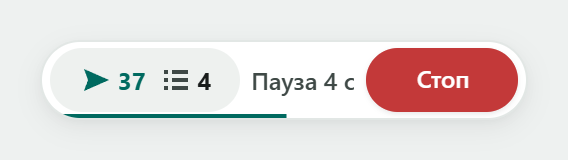
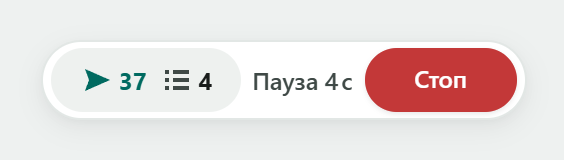
feat(hud): drop the pause bar, narrow space before seconds, release 0.2.4

diff --git a/hh-apply-assistant.user.js b/hh-apply-assistant.user.js
@@ -1,7 +1,7 @@
 // ==UserScript==
 // @name         HH Apply Assistant
 // @namespace    https://github.com/tgeruzov/hh-apply-assistant
-// @version      0.2.3
+// @version      0.2.4
 // @author       Timur Geruzov
 // @description  Автоматические отклики на вакансии hh.ru из поиска. Вакансии с тестами и анкетами откладывает в очередь для ручного отклика
 // @license      GPL-3.0-only
@@ -56,6 +56,10 @@ function pluralRu(n, one, few, many) {
   if (mod10 >= 2 && mod10 <= 4 && (mod100 < 12 || mod100 > 14)) return few;
   return many;
 }
+
+// "4 с" with a narrow no-break space: the unit stays next to the number and never
+// wraps to the next line on its own.
+const formatSeconds = (n) => `${n}\u202Fс`;
 
 function formatTime(dOrTs = new Date()) {
   const d = dOrTs instanceof Date ? dOrTs : (dOrTs ? new Date(dOrTs) : new Date());
@@ -3847,23 +3851,6 @@ function formatTime(dOrTs = new Date()) {
       display: inline-block;
     }
 
-    .hha-pill-step-bar {
-      position: absolute;
-      left: 0;
-      bottom: 0;
-      width: 100%;
-      height: 2px;
-      transform: scaleX(0);
-      transform-origin: left center;
-      background: var(--md-sys-color-primary);
-      opacity: 0;
-      pointer-events: none;
-    }
-
-    .hha-root.is-running .hha-pill-step-bar.is-active {
-      opacity: 1;
-    }
-
     .hha-pill-status {
       position: relative;
       display: inline-flex;
@@ -5680,8 +5667,7 @@ function formatTime(dOrTs = new Date()) {
 
     /* Accessibility: Motion Reduction (opacity only, <= 100ms, no transforms or growth) */
     @media (prefers-reduced-motion: reduce) {
-      /* The pause bar is excluded: it shows how long the pause lasts, it is not decoration. */
-      *:not(.hha-pill-step-bar),
+      *,
       *::before,
       *::after {
         transition-duration: 100ms !important;
@@ -5919,7 +5905,6 @@ function formatTime(dOrTs = new Date()) {
           assistant.on('activity', (activity) => {
             this._activity = activity || null;
             this._syncStatusLine();
-            this._syncPillBar();
           }),
           assistant.on('error', (payload) => this._showError(payload)),
           assistant.on('manualQueue', (payload) => {
@@ -6243,7 +6228,6 @@ function formatTime(dOrTs = new Date()) {
             <button type="button" class="hha-btn-quick hha-btn-start" data-action="quick-toggle" data-el="pill-quick-btn">
               <span class="hha-btn-label" data-el="pill-quick-label">Старт</span>
             </button>
-            <div class="hha-pill-step-bar" data-el="pill-step-bar"></div>
           </div>
 
           <!-- Flyout Overlay (390px wide, max 352px/552px height) -->
@@ -7310,7 +7294,6 @@ function formatTime(dOrTs = new Date()) {
         // The step segment appears only while running, so the pill changes width.
         this._updatePosition();
       }
-      this._syncPillBar();
 
       const quickBtns = this.#shadow.querySelectorAll('.hha-btn-quick');
       if (quickBtns.length > 0) {
@@ -7393,7 +7376,7 @@ function formatTime(dOrTs = new Date()) {
         // Cards without a link get a hash instead of an id; it means nothing to the user.
         if (a.vid && /^\d+$/.test(a.vid)) text += ` #${a.vid}`;
         const secondsLeft = a.until ? Math.ceil((a.until - Date.now()) / 1000) : 0;
-        if (secondsLeft > 0) text += `, ${secondsLeft} с`;
+        if (secondsLeft > 0) text += `, ${formatSeconds(secondsLeft)}`;
         return text;
       }
       if (code === 'DAILY_LIMIT_REACHED') return `Лимит hh.ru: ${MAX_DAILY_LIMIT} откликов за 24 часа. Продолжить можно позже`;
@@ -7433,7 +7416,7 @@ function formatTime(dOrTs = new Date()) {
       const a = this._activity;
       if (!a) return 'Работаю';
       const secondsLeft = a.until ? Math.ceil((a.until - Date.now()) / 1000) : 0;
-      return (ACTIVITY_SHORT[a.code] || 'Работаю') + (secondsLeft > 0 ? ` ${secondsLeft} с` : '');
+      return (ACTIVITY_SHORT[a.code] || 'Работаю') + (secondsLeft > 0 ? ` ${formatSeconds(secondsLeft)}` : '');
     }
 
     // A width transition does not run when `auto` changes with the text, so the
@@ -7449,26 +7432,6 @@ function formatTime(dOrTs = new Date()) {
       step.style.width = `${from}px`;
       void step.offsetWidth;
       step.style.width = `${to}px`;
-    }
-
-    // The bar under the pill fills up over a timed pause. One CSS transition per
-    // pause is enough; the second-by-second countdown lives in the text.
-    _syncPillBar() {
-      const bar = this.#shadow?.querySelector('[data-el="pill-step-bar"]');
-      if (!bar) return;
-      const a = this._status.status === 'running' ? this._activity : null;
-      const remaining = a?.until ? a.until - Date.now() : 0;
-      bar.style.transition = 'none';
-      if (!a?.durationMs || remaining <= 0) {
-        bar.classList.remove('is-active');
-        bar.style.transform = 'scaleX(0)';
-        return;
-      }
-      bar.style.transform = `scaleX(${Math.min(1, Math.max(0, 1 - remaining / a.durationMs))})`;
-      bar.classList.add('is-active');
-      void bar.offsetWidth;
-      bar.style.transition = `transform ${Math.round(remaining)}ms linear`;
-      bar.style.transform = 'scaleX(1)';
     }
 
     _syncStatusLine() {

diff --git a/README.md b/README.md
@@ -4,7 +4,7 @@
 
 **Userscript для автоматизации откликов на [hh.ru](https://hh.ru)**
 
-![Version](https://img.shields.io/badge/version-0.2.3-blue?style=flat-square)
+![Version](https://img.shields.io/badge/version-0.2.4-blue?style=flat-square)
 [![License: GPL-3.0-only](https://img.shields.io/badge/License-GPL--3.0--only-blue?style=flat-square)](./LICENSE)
 
 </div>
@@ -18,12 +18,12 @@
 * цифра у самолётика - отправлено откликов за сегодня. Счётчик считается по вашему времени, обнуляется в полночь и хранится в браузере. Лимит hh считает скользящие 24 часа, поэтому цифры могут не совпадать
 * цифра у списка - вакансий в очереди на ручной отклик
 
-Во время работы в пилюле рядом со счётчиком виден текущий шаг (`Пауза 4 с`, `Отклик`, `Жду hh.ru`), а полоска снизу заполняется, пока идёт пауза. Если навести на счётчик, появится подсказка с расшифровкой цифр и полным описанием шага. То же описание есть в строке статуса наверху раскрытой панели. Когда скрипт не работает, там сводка за день, а после остановки итог запуска: сколько времени он шёл и сколько откликов, вакансий в очередь и пропусков за это время. Причина остановки видна в подсказке при наведении на эту строку.
+Во время работы в пилюле рядом со счётчиком виден текущий шаг (`Пауза 4 с`, `Отклик`, `Жду hh.ru`), во время пауз с обратным отсчётом. Если навести на счётчик, появится подсказка с расшифровкой цифр и полным описанием шага. То же описание есть в строке статуса наверху раскрытой панели. Когда скрипт не работает, там сводка за день, а после остановки итог запуска: сколько времени он шёл и сколько откликов, вакансий в очередь и пропусков за это время. Причина остановки видна в подсказке при наведении на эту строку.
 
 <p align="center">
   <img src="docs/images/pill-idle.png" width="226" alt="Виджет в простое: 37 откликов за сегодня, 4 в очереди и кнопка Старт">
   &nbsp;&nbsp;
-  <img src="docs/images/pill-running.png" width="284" alt="Виджет во время работы: шаг Пауза 3 с и полоска паузы">
+  <img src="docs/images/pill-running.png" width="283" alt="Виджет во время работы: шаг Пауза с обратным отсчётом и кнопка Стоп">
 </p>
 
 Виджет можно перетащить мышкой в удобное место, у краёв экрана он прилипает. Поднять его можно только до высоты, где над ним ещё помещается раскрытая панель.
